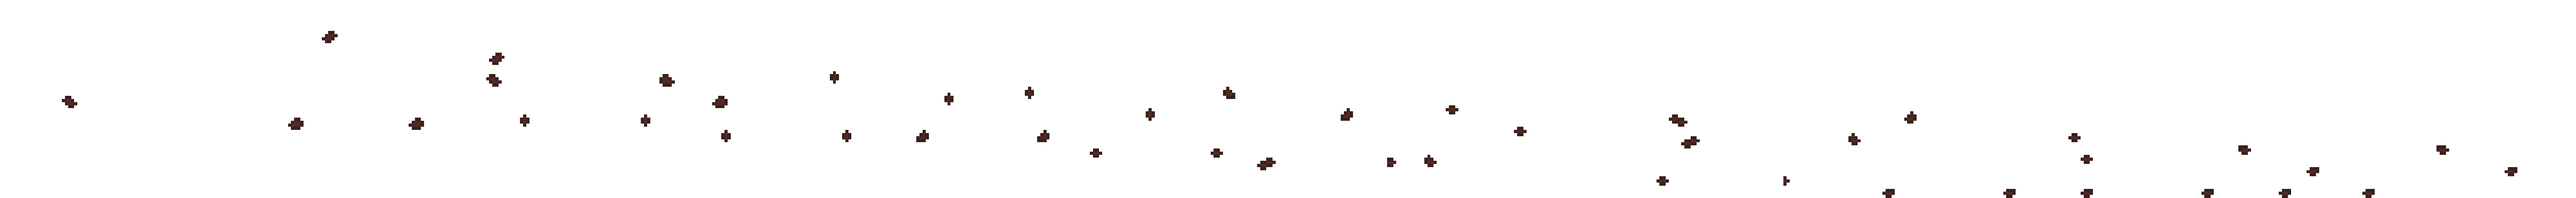
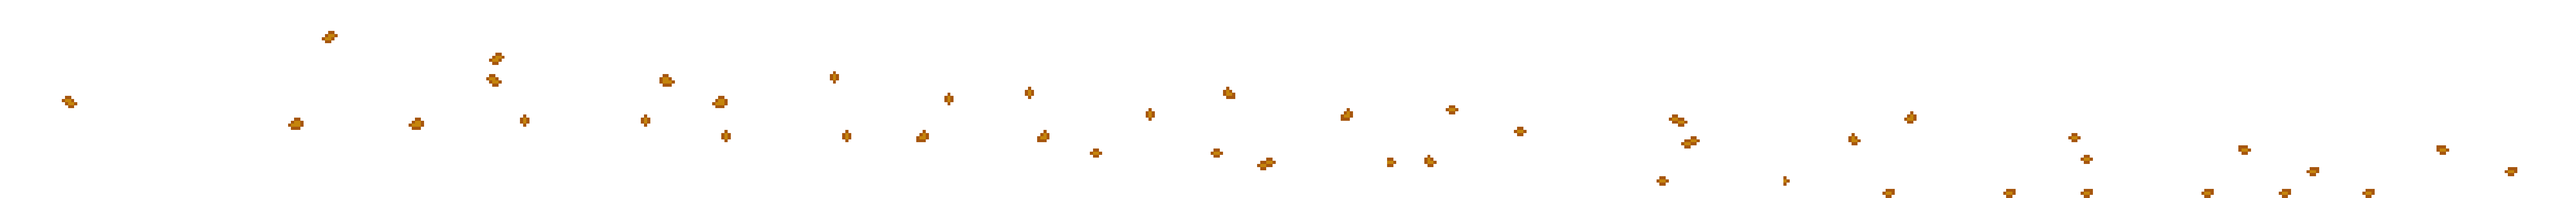
Adicion de creditos y nueva planta y aniaciones de alerta

diff --git a/Front/Imaginatio Web Front/src/components/dashboard/CreditsModal.tsx b/Front/Imaginatio Web Front/src/components/dashboard/CreditsModal.tsx
@@ -1,0 +1,86 @@
+import { isCreditsModalOpen } from "../../store/resourceStore";
+import sandovalImg from "../../assets/Group Members/Sandoval_member.jpeg";
+import andresImg from "../../assets/Group Members/andrs_member.jpeg";
+import willyImg from "../../assets/Group Members/willy_member.jpeg";
+import dannyImg from "../../assets/Group Members/Danny_member.png";
+
+interface Member {
+  name: string;
+  image?: any;
+}
+
+const CreditCard = ({ role, members }: { role: string, members: Member[] }) => {
+  return (
+    <div className="bg-[#f5e6c8] p-3 rounded-xl border-2 border-[#d4bc96] group cursor-pointer flex flex-col items-center transition-all duration-300 hover:bg-[#ffeecf] shadow-sm hover:shadow-md">
+      <span className="font-bold text-[#8B4513] text-center mb-1">{role}</span>
+      
+      <div className="flex flex-row flex-wrap justify-center gap-x-8 gap-y-2 w-full">
+        {members.map(m => (
+          <div key={m.name} className="flex flex-col items-center">
+            {/* Imagen que aparece al hacer hover */}
+            <div className="max-h-0 opacity-0 group-hover:max-h-56 group-hover:opacity-100 transition-all duration-500 ease-in-out overflow-hidden flex flex-col justify-end">
+              <img 
+                src={m.image || `https://ui-avatars.com/api/?name=${encodeURIComponent(m.name)}&background=8B4513&color=fff9eb&size=256&bold=true`} 
+                alt={m.name}
+                className="w-32 h-32 rounded-2xl border-4 border-[#4e341b] shadow-xl mt-4 mb-3 object-cover"
+              />
+            </div>
+            {/* Nombre */}
+            <p className="font-bold text-[#5c3e21] drop-shadow-sm">{m.name}</p>
+          </div>
+        ))}
+      </div>
+    </div>
+  );
+};
+
+export default function CreditsModal() {
+  if (!isCreditsModalOpen.value) return null;
+
+  return (
+    <div className="absolute inset-0 z-[100] flex items-center justify-center bg-black/70 backdrop-blur-sm p-4">
+      <div
+        className="bg-[#f5e6c8] w-[600px] max-w-full rounded-3xl border-[12px] border-[#4e341b] shadow-2xl flex flex-col items-center relative p-8 animate-in zoom-in duration-200"
+      >
+        {/* Botón de cierre */}
+        <button
+          onClick={() => isCreditsModalOpen.value = false}
+          className="absolute -top-6 -right-6 w-14 h-14 bg-red-500 border-4 border-[#4e341b] rounded-full text-white font-black text-2xl flex items-center justify-center hover:bg-red-600 hover:scale-110 active:scale-90 transition-all shadow-[0_4px_0_#4e341b]"
+        >
+          X
+        </button>
+
+        {/* Header */}
+        <div className="bg-[#4e341b] text-[#f5e6c8] w-[110%] py-4 -mt-14 mb-8 rounded-xl border-4 border-[#8B4513] shadow-lg text-center relative">
+          <h2 className="text-4xl font-black uppercase tracking-widest drop-shadow-[0_2px_2px_rgba(0,0,0,0.5)]">
+            CRÉDITOS
+          </h2>
+        </div>
+
+        {/* Contenido de créditos */}
+        <div className="w-full bg-[#fff9eb] border-4 border-[#8B4513] rounded-2xl p-6 text-center space-y-4 max-h-[60vh] overflow-y-auto">
+          <p className="text-xl font-bold text-[#4e341b] mb-6">
+            Plantagochi es:
+          </p>
+
+          <div className="space-y-4 text-lg font-medium text-[#5c3e21]">
+            <CreditCard role="Desarrollo Back-end" members={[{ name: "Alejandro Sandoval", image: sandovalImg.src }]} />
+            <CreditCard role="Desarrollo Front-end" members={[{ name: "Andres Moya", image: andresImg.src }]} />
+            <CreditCard role="Arte y Diseño" members={[{ name: "Andres Alcazar" }]} />
+            <CreditCard role="Diseño de efectos visuales" members={[{ name: "William Cubillos", image: willyImg.src }]} />
+            <CreditCard role="Automatizacion de animaciones" members={[{ name: "Nicolas" }]} />
+            <CreditCard role="Concepto original" members={[{ name: "Miguel Olivares" }, { name: "Danny Bercelio", image: dannyImg.src }]} />
+          </div>
+
+          <p className="text-sm font-bold text-[#8B4513] mt-8 opacity-80">
+            Agradecimientos especiales a todos los estudiantes participantes de la convocatoria
+          </p>
+
+          <p className="text-sm font-bold text-[#8B4513] mt-8 opacity-80">
+            ¡Gracias por jugar y cuidar a tu plantita! 🌱
+          </p>
+        </div>
+      </div>
+    </div>
+  );
+}

diff --git a/Front/Imaginatio Web Front/src/components/dashboard/Plant.tsx b/Front/Imaginatio Web Front/src/components/dashboard/Plant.tsx
@@ -8,7 +8,10 @@ import {
   isFertilizing,
   isSunning,
   isEvolving,
-  plantHealth
+  plantHealth,
+  plantWaterProgress,
+  plantSunProgress,
+  EVOLUTION_REQUIREMENTS
 } from "../../store/plantStore";
 import { SpriteAnimator } from './SpriteAnimator';
 import { getSpriteConfig } from '../../config/plantSpriteRegistry';
@@ -21,6 +24,8 @@ import evolucionSpriteSheet from '../../assets/Recursos estadosPlanta/Evolucion.
 import watherSpriteSheet from '../../assets/Recursos estadosPlanta/Wather.png';
 import abonoSpriteSheet from '../../assets/Recursos estadosPlanta/Abono.png';
 import solSpriteSheet from '../../assets/Recursos estadosPlanta/Sol.png';
+import criticalParticlesSprite from '../../assets/Recursos estadosPlanta/Critical Particles.png';
+import dangerParticlesSprite from '../../assets/Recursos estadosPlanta/Danger Particles.png';
 
 export const Plant = () => {
   const [displayPhase, setDisplayPhase] = useState<PlantPhase>(plantPhase.value);
@@ -69,6 +74,34 @@ export const Plant = () => {
   const config = getSpriteConfig(displaySpecies, displayPhase);
   const isAnimated = config.frameCount > 1;
   const isDead = plantHealth.value <= 0;
+
+  const water = plantWaterProgress.value;
+  const sun = plantSunProgress.value;
+
+  let isDanger = false;
+  let isAlert = false;
+
+  if (!isDead) {
+    if (water <= 1 || sun <= 1) {
+      isDanger = true;
+    } else {
+      const reqs = EVOLUTION_REQUIREMENTS[displayPhase] || { water: 10, sun: 10 };
+      const waterPct = (water / reqs.water) * 100;
+      const sunPct = (sun / reqs.sun) * 100;
+      if (waterPct <= 50 || sunPct <= 50) {
+        isAlert = true;
+      }
+    }
+  }
+
+  // Clases dinámicas de tamaño y posición según la fase de la planta
+  const particleStyles: Record<PlantPhase, string> = {
+    seed: "scale-[1.0] translate-y-15",
+    small_bush: "scale-[1.3] translate-y-10",
+    large_bush: "scale-[1.5] translate-y-3",
+    ent: "scale-[2.5] translate-y-48"
+  };
+  const particleClass = particleStyles[displayPhase] || "scale-[1.5] -translate-y-20";
 
   return (
     <div className="relative mb-24 flex flex-col items-center pointer-events-none group">
@@ -126,6 +159,18 @@ export const Plant = () => {
         {isSunning.value && (
           <div className="absolute inset-0 z-30 flex items-center justify-center pointer-events-none scale-[2.5] -translate-y-50">
             <SpriteAnimator src={solSpriteSheet.src} frameWidth={500} frameHeight={500} frameCount={35} fps={20} className="w-full h-full object-contain mix-blend-screen opacity-50" />
+          </div>
+        )}
+
+        {/* Partículas de Alerta y Peligro */}
+        {isDanger && (
+          <div className={`absolute inset-0 z-40 flex items-center justify-center pointer-events-none ${particleClass}`}>
+            <SpriteAnimator src={dangerParticlesSprite.src} frameWidth={500} frameHeight={500} frameCount={13} fps={7} className="w-full h-full object-contain mix-blend-screen opacity-90" />
+          </div>
+        )}
+        {isAlert && !isDanger && (
+          <div className={`absolute inset-0 z-40 flex items-center justify-center pointer-events-none ${particleClass}`}>
+            <SpriteAnimator src={criticalParticlesSprite.src} frameWidth={500} frameHeight={500} frameCount={13} fps={7} className="w-full h-full object-contain mix-blend-screen opacity-90" />
           </div>
         )}
       </div>

diff --git a/Front/Imaginatio Web Front/src/config/plantSpriteRegistry.ts b/Front/Imaginatio Web Front/src/config/plantSpriteRegistry.ts
@@ -44,12 +44,12 @@ import cedro_large_bush from '../assets/Recursos planta/Sprites Cedro/Verde - co
 import cedro_ent from '../assets/Recursos planta/Sprites Cedro/Verde - copia (3).png';
 
 // ─────────────────────────────────────────────
-// PRUEBA (duraznillo)  (Spritesheets animados)
+// cajeto (Spritesheets animados)
 // ─────────────────────────────────────────────
-import prueba_seed from '../assets/Recursos planta/Sprites prueba/prueba_asemilla_idle.png';
-import prueba_small_bush from '../assets/Recursos planta/Sprites prueba/prueba_fase1_idle.png';
-import prueba_large_bush from '../assets/Recursos planta/Sprites prueba/prueba_fase1_idle.png';
-import prueba_ent from '../assets/Recursos planta/Sprites prueba/prueba_ent_idle.png';
+import cajeto_seed from '../assets/Recursos planta/willy-cajeto/semilla_idle_spritesheet.png';
+import cajeto_small_bush from '../assets/Recursos planta/willy-cajeto/fase2_idle_spritesheet.png';
+import cajeto_large_bush from '../assets/Recursos planta/willy-cajeto/fase3_idle_spritesheet.png';
+import cajeto_ent from '../assets/Recursos planta/willy-cajeto/ent_idle_spritesheet.png';
 
 // ─────────────────────────────────────────────
 // Helper para crear configuraciones fácilmente
@@ -64,10 +64,10 @@ function createPlantConfig(
   const s = typeof scales === "number" ? { seed: scales, small_bush: scales, large_bush: scales, ent: scales } : scales;
   const base = { frameWidth, frameHeight, frameCount };
   return {
-    seed:       { ...base, src: sources.seed,       scale: s.seed,       hitbox: "w-32 h-32" },
+    seed: { ...base, src: sources.seed, scale: s.seed, hitbox: "w-32 h-32" },
     small_bush: { ...base, src: sources.small_bush, scale: s.small_bush, hitbox: "w-48 h-48" },
     large_bush: { ...base, src: sources.large_bush, scale: s.large_bush, hitbox: "w-56 h-64" },
-    ent:        { ...base, src: sources.ent,        scale: s.ent,        hitbox: "w-64 h-80" },
+    ent: { ...base, src: sources.ent, scale: s.ent, hitbox: "w-64 h-80" },
   };
 }
 
@@ -85,9 +85,9 @@ export const PLANT_SPRITE_REGISTRY: Record<string, Record<PlantPhase, SpriteConf
   cedro: createPlantConfig(
     { seed: cedro_seed.src, small_bush: cedro_small_bush.src, large_bush: cedro_large_bush.src, ent: cedro_ent.src }
   ),
-  duraznillo: createPlantConfig(
-    { seed: prueba_seed.src, small_bush: prueba_small_bush.src, large_bush: prueba_large_bush.src, ent: prueba_ent.src },
-    0.3
+  cajeto: createPlantConfig(
+    { seed: cajeto_seed.src, small_bush: cajeto_small_bush.src, large_bush: cajeto_large_bush.src, ent: cajeto_ent.src },
+    { seed: 0.3, small_bush: 0.5, large_bush: 1, ent: 1.3 }
   ),
 
   // ── Para añadir una nueva especie: ──

diff --git a/Front/Imaginatio Web Front/src/components/dashboard/TopHeader.tsx b/Front/Imaginatio Web Front/src/components/dashboard/TopHeader.tsx
@@ -1,5 +1,5 @@
 import { useState, useEffect, useRef } from "preact/hooks";
-import { isInventoryOpen, isHelpModalOpen, plantName, activePlantId } from '../../store/resourceStore';
+import { isInventoryOpen, isHelpModalOpen, isCreditsModalOpen, plantName, activePlantId } from '../../store/resourceStore';
 import { fetchMyActivePlant, renamePlant } from '../../store/apiClient';
 import { syncPlantState, plantHealth, plantWaterProgress, plantSunProgress, plantPhase, EVOLUTION_REQUIREMENTS } from '../../store/plantStore';
 import panelHudSuperior from '../../assets/Recursos web media/Panel_HUD_superior.png';
@@ -194,8 +194,15 @@ export default function TopHeader() {
           </span>
         </div>
 
-        {/* Right buttons: Inventario y Ayuda */}
+        {/* Right buttons: Inventario, Ayuda y Créditos */}
         <div className="flex gap-5 shrink-0 mr-10">
+          <div
+            onClick={() => isCreditsModalOpen.value = true}
+            className="w-16 h-16 flex items-center justify-center cursor-pointer transition-all duration-150 ease-in-out hover:opacity-60 active:scale-90 bg-[#f5e6c8] border-4 border-[#4e341b] rounded-2xl shadow-[0_4px_0_#4e341b] text-[#4e341b] font-black text-2xl"
+            title="Créditos"
+          >
+            🌟
+          </div>
           <div
             onClick={() => isInventoryOpen.value = true}
             className="w-16 h-16 flex items-center justify-center cursor-pointer transition-all duration-150 ease-in-out hover:opacity-60 active:scale-90"

diff --git a/Front/Imaginatio Web Front/src/components/MainUI.tsx b/Front/Imaginatio Web Front/src/components/MainUI.tsx
@@ -10,6 +10,7 @@ import GameArea from "./dashboard/GameArea";
 import BottomActions from "./dashboard/BottomActions";
 import Inventory from "./dashboard/Inventory";
 import HelpModal from "./dashboard/HelpModal";
+import CreditsModal from "./dashboard/CreditsModal";
 import { useScale } from "../hooks/useScale";
 import Water from "./MiniGames/water";
 import Compost from "./MiniGames/compost";
@@ -127,6 +128,7 @@ export default function MainUI() {
 
           <Inventory />
           <HelpModal />
+          <CreditsModal />
         </div>
       </div>
 

diff --git a/Front/Imaginatio Web Front/src/store/resourceStore.ts b/Front/Imaginatio Web Front/src/store/resourceStore.ts
@@ -62,6 +62,7 @@ export const isSunGameOpen = signal(false);
 export const isPlantInfoOpen = signal(false);
 export const isInventoryOpen = signal(false);
 export const isHelpModalOpen = signal(false);
+export const isCreditsModalOpen = signal(false);
 
 /** Incrementar este signal fuerza al inventario a refrescarse */
 export const inventoryVersion = signal(0);
